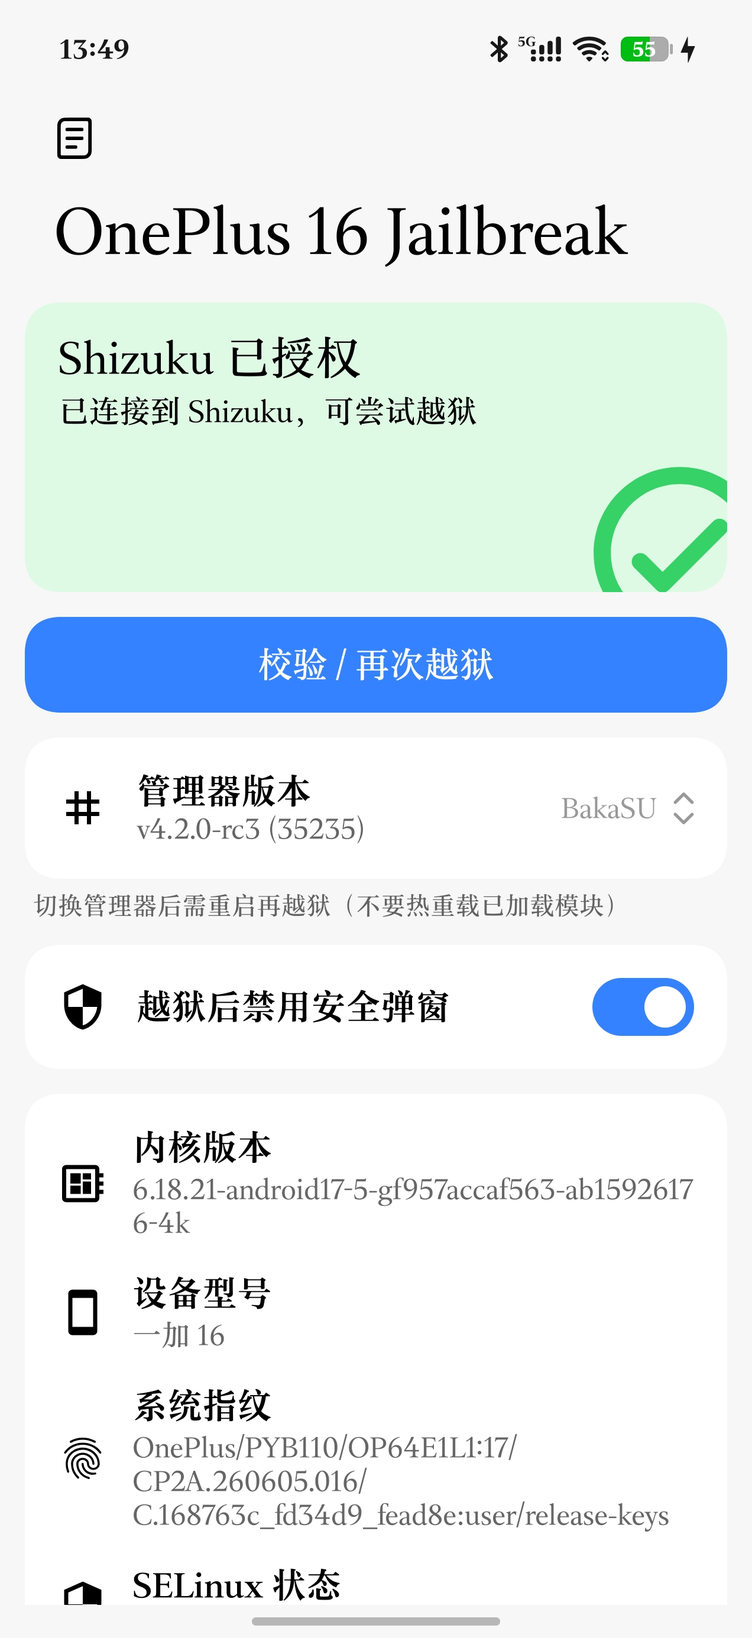
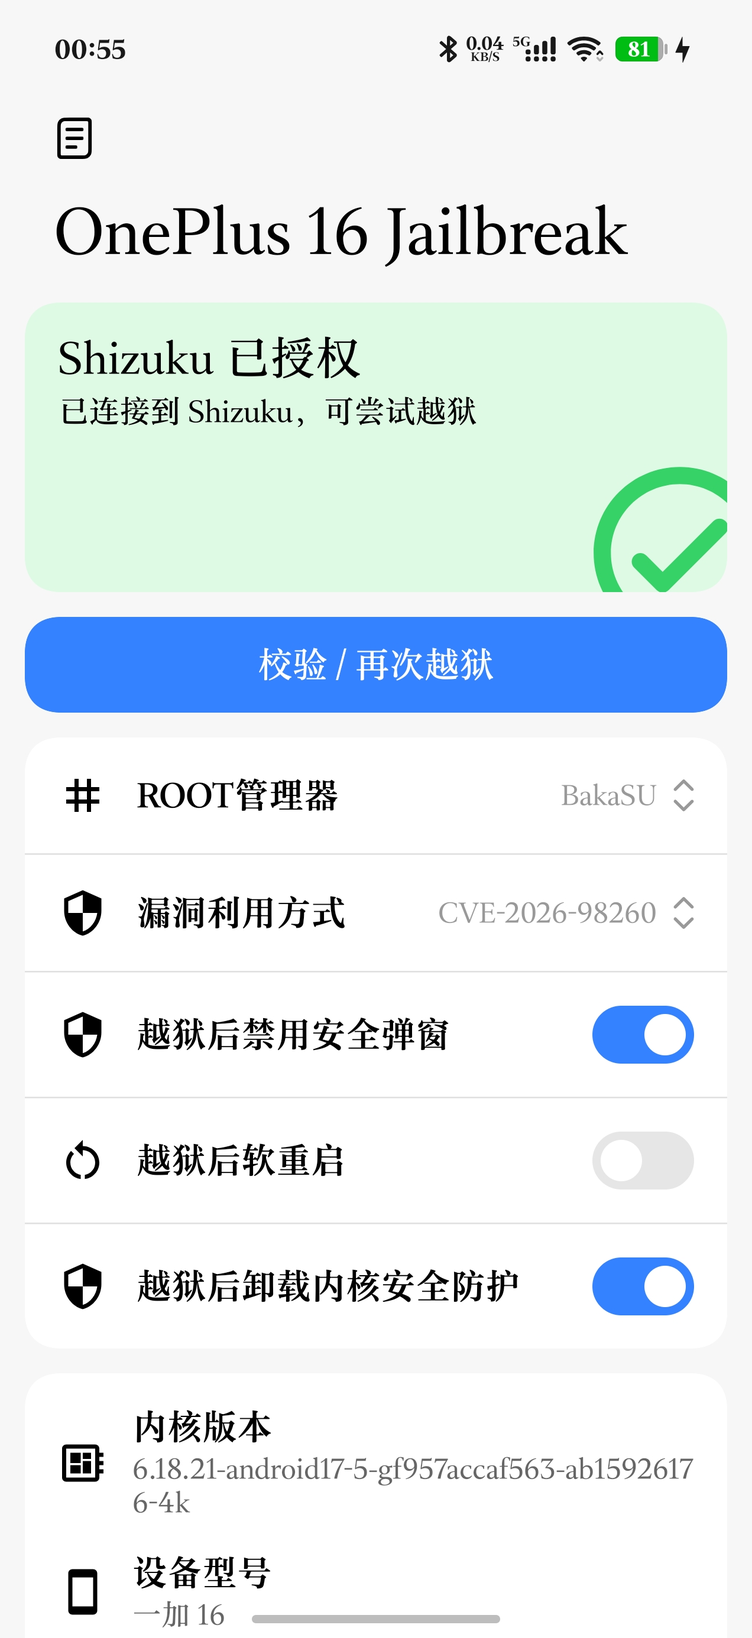
feat(app): clean up the 98260 rootd after a successful handoff
Kill t98260_plant and remove its socket once the normal su works;
keep the daemon only as a fallback when ksud install fails.
Refresh the README for the dual-exploit flow, current LKM versions,
built-in assets and the current app UI screenshots.

diff --git a/README.md b/README.md
@@ -1,71 +1,92 @@
 # OnePlus 16 Jailbreak
 
-在 **OnePlus 16（PYB110，SM8950，Android 17 / ColorOS，内核 `6.18.21-android17-5-gf957accaf563-ab15926176-4k`）** 上，通过 **CVE-2026-64560** 提权并加载 **内核态 root（KernelSU / KernelSU Next / BakaSU）** 的一键工具与源码。
+在 **OnePlus 16（PYB110，SM8950，Android 17 / ColorOS，内核 `6.18.21-android17-5-gf957accaf563-ab15926176-4k`）** 上，通过 **CVE-2026-64560** 或 **CVE-2026-98260** 提权，并加载 **内核态 root（KernelSU / KernelSU Next / BakaSU / SukiSU Ultra）** 的一键工具与源码。
 
-设备未解锁 BL，起手只有 adb shell（uid 2000）。工具通过 Shizuku 以 shell 身份驱动设备端 exploit，最终 `finit_module` 加载按本机 GKI 6.18.21 自编的 LKM。
+设备未解锁 BL，起手只有 adb shell（uid 2000）。工具通过 Shizuku 以 shell 身份驱动设备端 exploit，最终加载按本机 GKI 6.18.21 自编的 LKM：64560 分支走 `finit_module`，98260 分支走 `ksud late-load`（失败回退 `insmod`）。
 
 > 仅用于自有设备的系统研究。存在竞态与重启风险，详见「风险」一节。
 
 ## 当前状态
 
+- **双漏洞可选**：默认 `CVE-2026-64560`（逐字段零写 cred + `finit_module`）；`CVE-2026-98260` 使用本仓库的 `t98260_plant` 引擎（exec + POSIX 定时器 UAF、假 cred 指针写 + rootd），真机验证 uid 0、全量 CapEff、SELinux Permissive。98260 建议在干净开机后使用。
 - **KernelSU（官方 v3.3.1）**：真机跑通，模块 Live、`su` uid 0、管理器加冕、Enforcing 下可用。
-- **BakaSU（原 ReSukiSU）**：LKM/ksud/管理器均对齐官方 CI `v4.2.0-rc3 (35235)`，真机加载成功。
-- **KernelSU Next**：LKM 已按同版本 GKI 编译并在 App 中可选，尚未做实机加载验证。
-- **SukiSU Ultra**：LKM 按 6.18.21 自编（376,136 B）、管理器 v4.2.1 (40994)，真机加载成功：工作中 [LKM] [自定义] [越狱模式]，模块版本 41027-5，钩子类型 Tracepoint Syscall Redirect。
-- App 支持四种 root 管理器下拉选择；release 签名 APK 已构建。
-- **双漏洞可选**：默认 `CVE-2026-64560`（逐字段零写 cred），新增 `CVE-2026-98260`（假 cred 指针写 + ksud late-load）。下拉选择后点击“一键越狱”即走对应链路；98260 建议在干净开机后使用。
-- **全内置**：四个管理器的 ko/ksud、符号表、slide 与越狱脚本全部打包在 APK 内（约 28 MB），运行时不联网；管理器 APK 由用户自行安装。
+- **BakaSU（原 ReSukiSU）**：LKM/ksud/管理器对齐上游 `35252`（`v4.2.0-rc3`），真机加载成功；LKM 435,616 B。
+- **KernelSU Next**：LKM 350,000 B，已按同版本 GKI 编译并在 App 中可选，尚未做实机加载验证。
+- **SukiSU Ultra**：LKM/ksud 对齐 `v4.2.1-r2`（KSU 版本 41068），LKM 535,328 B；真机加载成功。
+- App 为单页设置：ROOT 管理器与漏洞利用方式各一个下拉，另有三个流程开关；release 签名 APK 已构建。
+- **全内置**：四个管理器的 ko/ksud、符号表、slide 与越狱脚本全部打包在 APK 内（`assets/pyb110` 约 48 MB，release APK 约 28 MB），运行时不联网；管理器 APK 由用户自行安装。
 
 ## 截图
 
 <table align="center">
   <tr>
-    <td align="center"><img src="docs/screenshots/bakasu-manager.jpg" width="170" alt="BakaSU 管理器"><br><sub><b>1 · BakaSU 管理器</b></sub></td>
-    <td align="center"><img src="docs/screenshots/kernelsu-manager.jpg" width="170" alt="KernelSU 管理器"><br><sub><b>2 · KernelSU 管理器</b></sub></td>
-    <td align="center"><img src="docs/screenshots/app-home.jpg" width="170" alt="App 首页"><br><sub><b>3 · App 首页</b></sub></td>
-    <td align="center"><img src="docs/screenshots/sukisu-manager.jpg" width="170" alt="SukiSU Ultra 管理器"><br><sub><b>4 · SukiSU Ultra</b></sub></td>
-    <td align="center"><img src="docs/screenshots/app-manager-dropdown.jpg" width="170" alt="管理器下拉"><br><sub><b>5 · 管理器下拉</b></sub></td>
+    <td align="center"><img src="docs/screenshots/app-home.jpg" width="170" alt="App 设置页"><br><sub><b>1 · App 设置页</b></sub></td>
+    <td align="center"><img src="docs/screenshots/app-exploit-dropdown.jpg" width="170" alt="漏洞利用方式下拉"><br><sub><b>2 · 漏洞利用方式</b></sub></td>
+    <td align="center"><img src="docs/screenshots/app-manager-dropdown.jpg" width="170" alt="ROOT 管理器下拉"><br><sub><b>3 · ROOT 管理器</b></sub></td>
+  </tr>
+  <tr>
+    <td align="center"><img src="docs/screenshots/kernelsu-manager.jpg" width="170" alt="KernelSU 管理器"><br><sub><b>4 · KernelSU 管理器</b></sub></td>
+    <td align="center"><img src="docs/screenshots/bakasu-manager.jpg" width="170" alt="BakaSU 管理器"><br><sub><b>5 · BakaSU 管理器</b></sub></td>
+    <td align="center"><img src="docs/screenshots/sukisu-manager.jpg" width="170" alt="SukiSU Ultra 管理器"><br><sub><b>6 · SukiSU Ultra 管理器</b></sub></td>
   </tr>
 </table>
 
 ## 工作原理
 
 ```
-┌──────────────────────────────┐
-│ App (Kotlin/Compose/Miuix)   │
-│  - 管理器下拉 / 反 root 开关 │
-│  - 日志二级页                │
-└──────────────┬───────────────┘
-               │ Shizuku (uid 2000)
-               ▼
-┌──────────────────────────────┐
-│ /data/local/tmp/pyb110-<id>  │
-│  run.sh 六步：               │
-│  1 抓 KASLR slide            │
-│  2 解 slide                  │
-│  3 按 slide 打补丁生成 ko    │
-│  4 selinux_state-7 零写      │
-│  5 perf 泄漏 cred + 两阶段写 │
-│  6 反 root 守卫 + ksud 安装  │
-└──────────────┬───────────────┘
-               │ finit_module
-               ▼
-┌──────────────────────────────┐
-│ 内核：kernelsu.ko (LKM)      │
-│  - su / 管理器加冕           │
-│  - 模块参数 allow_shell=1    │
-└──────────────────────────────┘
+┌────────────────────────────────┐
+│ App (Kotlin/Compose/Miuix)     │
+│  - ROOT 管理器 / 漏洞利用方式  │
+│  - 三个流程开关 / 日志页       │
+└───────────────┬────────────────┘
+                │ Shizuku (uid 2000)
+                ▼
+┌───────────────────────────────────────────────┐
+│ /data/local/tmp/pyb110-<boot_id>-<epoch>/     │
+│  64560：run.sh                                │
+│   1 抓/解 KASLR slide                         │
+│   2 按 slide 打补丁生成 ko                    │
+│   3 selinux_state-7 零写 → Permissive         │
+│   4 perf 泄漏 cred + 两阶段写                 │
+│   5 finit_module 加载 LKM                     │
+│   6 反 root 守卫 + ksud 安装                  │
+│  98260：run98260.sh                           │
+│   1 probe（内核指纹 / trace 通道）            │
+│   2 抓/解 KASLR slide                         │
+│   3 t98260_plant：UAF → 假 cred → rootd       │
+│   4 t98260_su → ksud late-load（回退 insmod） │
+│   5 反 root 守卫 + ksud 安装                  │
+└───────────────┬───────────────────────────────┘
+                ▼
+┌────────────────────────────────┐
+│ 内核：ksu-base*.ko (LKM)       │
+│  - su / 管理器加冕             │
+│  - 模块参数 allow_shell=1      │
+└────────────────────────────────┘
 ```
 
 关键点：
+
+**CVE-2026-64560（run.sh）**
 
 - **KASLR slide**：读取 `sched_blocked_reason` tracepoint 的 `%pS` 文本锚点和 per-CPU raw 指针，2MB 对齐投票。
 - **关闭 SELinux**：对 `selinux_state - 7` 做 8 字节零写，只覆盖 `enforcing`，保留 `initialized`（避免二次竞态与 `load_policy` 崩溃）。
 - **cred 泄漏**：`capset(0)` 触发 `kmem_cache_alloc`，用 perf tracepoint raw 直接拿到新 `cred` 的内核地址。
 - **两阶段写**：phase1 清 `cred+0x48`（cap_bset）；phase2 把 `cred+0x40`（cap_effective）写成地址自身，利用 bit7/bit16 获得 `CAP_SETUID`/`CAP_SYS_MODULE`。选位需跨 CPU。
 - **加载**：`setfsgid/setfsuid/setresuid(0)` 后 `finit_module(..., "allow_shell=1")`。
-- **反 root 守卫**：ColorOS 的 `com.oplus.exsystemservice` 会在检测到提权后弹窗并在 15 秒后 `reboot("Malicious app try to root devices")`。可选开关开启时，流程会在拿到 su 后禁用该包并 kill 进程，**5 秒后自动恢复**（禁用过久会导致系统截图不可用）。
 - **管理器加冕**：`chmod 644 /data/system/packages.list` 后原子移出/移回触发 fsnotify。
+
+**CVE-2026-98260（run98260.sh + t98260_plant）**
+
+- **UAF 原语**：非 leader 线程 exec 与 `CLOCK_THREAD_CPUTIME_ID` POSIX 定时器竞争；`exit_itimers` 在定时器队列节点仍挂链时释放 `k_itimer`，`release_task` 之后再对已释放节点执行 `rb_erase`。
+- **拉窗与命中**：50000 个单页 memfd VMA 与 mprotect 锁线程拉长 `exec_mmap` 窗口；ESRCH 门控的 `tgkill(SIGKILL)` 只杀正在 exec 的非 leader。
+- **泄漏与回收**：2048 个定时器，ftrace raw 管道逐字节扫描拿到 `k_itimer` 地址；`mm_page_alloc/free` 与 PFN 校验定位被释放的 order-1 slab 页，再用 8K AF_UNIX skb 回收。
+- **写入与提权**：伪造 `rb_node` 瓦片，借 `rb_erase` 完成零写/指针写；先以同一原语把 `selinux_state - 7` 写零进入 Permissive，再把假 cred 装进 `task->cred`。
+- **rootd 与交接**：假 cred 子进程在 `/data/local/tmp/t98260-root.sock` 提供 rootd，`t98260_su` 以 root 执行 `ksud late-load --kmi android17-6.18`；失败时用 `prep_patch` 按当次 slide 打补丁后 `insmod`。
+
+**两个分支共用**
+
+- **反 root 守卫**：ColorOS 的 `com.oplus.exsystemservice` 会在检测到提权后弹窗并在 15 秒后 `reboot("Malicious app try to root devices")`。可选开关开启时，流程会在拿到 su 后禁用该包并 kill 进程，**5 秒后自动恢复**（禁用过久会导致系统截图不可用）。
 
 ## 目录结构
 
@@ -73,8 +94,8 @@
 OnePlus16-Jailbreak/
 ├── app/                         Android App（Gradle 工程根）
 │   ├── app/                     :app 模块（Kotlin/Compose/Miuix/Shizuku）
-│   │   ├── src/main/java/...    MainActivity
-│   │   ├── src/main/assets/pyb110/  内置 exploit 二进制（约 11 MB）
+│   │   ├── src/main/java/com/pyb110/onekey/MainActivity.kt  单页设置与流程调度
+│   │   ├── src/main/assets/pyb110/  内置设备端工具与四家 ko/ksud（约 48 MB）
 │   │   ├── src/main/res/        自绘图标与资源
 │   │   ├── build.gradle.kts     签名配置 + R8
 │   │   └── proguard-rules.pro
@@ -82,27 +103,29 @@ OnePlus16-Jailbreak/
 │   ├── keystore.properties.example
 │   └── settings.gradle.kts
 ├── exploit/                     提权工具源码
-│   ├── src/t64560_w2.c          两阶段 cred 写
+│   ├── src/t64560_w2.c          64560 两阶段 cred 写
+│   ├── src/t98260_plant.c       98260 UAF / 泄漏 / 假 cred / rootd
+│   ├── src/t98260_su.c          rootd 客户端
 │   ├── src/prep_solve.c         设备端 slide 求解
-│   └── src/prep_patch.c         ko 符号补丁（UNDEF → link+slide）
-├── remote/                      远端素材源
-│   ├── scripts/run.sh           64560 六步主流程（运行时下载）
-│   └── assets/pyb110/run98260.sh 98260 主流程（t98260_plant -> rootd -> late-load）
+│   ├── src/prep_patch.c         ko 符号补丁（UNDEF → link+slide）
+│   └── build-98260.sh           用 NDK 静态编译 t98260_plant / t98260_su
+├── remote/                      设备端脚本与符号表副本（App 运行时不下载）
+│   ├── scripts/run.sh           64560 主流程
 │   ├── scripts/take_slide.sh    抓 slide
 │   └── syms-6.18.21.txt         该内核的符号表
-├── assets/                      签名清单 manifest.json / manifest.sig
-├── tools/                       发布工具（managers.json + publish_assets.py）
 ├── lkm/                         LKM 构建脚本
 │   ├── build-kernelsu.sh        官方 KernelSU
 │   ├── build-next.sh            KernelSU Next
 │   ├── build-bakasu.sh          BakaSU（原 ReSukiSU）
+│   ├── build-sukisu.sh          SukiSU Ultra
 │   └── README.md
+├── docs/screenshots/            App 与管理器截图
 ├── third_party/                 上游工具与许可（CVE 公开仓库）
 ├── NOTICE                       第三方来源与许可
 └── LICENSE                      MIT（本项目自研代码）
 ```
 
-> 设备端还使用公开仓库提供的 `t64560_v36`、`t64560_loader2`、`forker` 二进制（Apache-2.0）；98260 分支使用本仓库 [exploit/src](exploit/src) 自建的 `t98260_plant`、`t98260_su`。全部打包在 `app/app/src/main/assets/pyb110/` 内，来源与许可见 `NOTICE` 与下文。
+> 设备端还使用公开仓库提供的 `t64560_v36`、`t64560_loader2`、`forker` 二进制（Apache-2.0）；`t64560_w2` 与 98260 分支的 `t98260_plant`、`t98260_su` 由本仓库 [exploit/src](exploit/src) 构建。全部打包在 `app/app/src/main/assets/pyb110/` 内，来源与许可见 `NOTICE` 与下文。
 
 ## 构建
 
@@ -115,7 +138,7 @@ cd app
 cp keystore.properties.example keystore.properties   # 填入自己的签名信息
 # local.properties 里写 sdk.dir=/path/to/android-sdk
 ./gradlew :app:assembleDebug
-./gradlew :app:assembleRelease   # R8 + 资源压缩，约 7 MB（只内置 exploit 工具）
+./gradlew :app:assembleRelease   # R8 + 资源压缩，约 28 MB（内置全部设备端素材）
 ```
 
 `keystore.properties`、`keystore/`、`*.jks`、`local.properties` 已被 `.gitignore` 排除。生成 release 密钥示例：
@@ -125,27 +148,15 @@ keytool -genkeypair -v -keystore keystore/release.jks -alias oneplus16 \
   -keyalg RSA -keysize 4096 -validity 10000 -storetype PKCS12
 ```
 
-### 远端素材与签名清单
+### 内置素材
 
-APK 只内置 exploit 二进制（`prep_*`、`t64560_*`、`forker`、`t98260_plant`、`t98260_su`、`run98260.sh`，约 15 MB），**按所选漏洞只部署其中一组**（64560 不推 98260 的，反之亦然；98260 也不部署 `run.sh`）。四个管理器的 ko/ksud、`syms.txt`、`run.sh`、`take_slide.sh` 全部内置，运行时不联网：
+App 把全部设备端资产打包在 `app/app/src/main/assets/pyb110/`（约 48 MB 未压缩，release APK 约 28 MB），运行时不联网。每次越狱只部署当前选择需要的文件：
 
-1. 取 `https://raw.githubusercontent.com/Yunnijian/OnePlus16-Jailbreak/refs/heads/main/assets/manifest.json` 与同名 `.sig`；
-2. 用 App 内置的 ECDSA P-256 公钥验签（私钥 `keystore/update-signing-key.pem` 永不入库）；
-3. 按清单里的 `kernel` 与首页所选管理器挑条目，逐个校验 `size` + `sha256`，`.ko` 还要含 `vermagic=<kernel>` 才接受；
-4. 文件按 sha256 缓存在 App 私有目录，拉清单失败时用 last-good 缓存；部署仍走原来的 Shizuku `cat >` 流。
+- 64560：`prep_solve`、`prep_patch`、`t64560_v36`、`t64560_loader2`、`t64560_w2`、`forker`、`run.sh`；
+- 98260：`t98260_plant`、`t98260_su`、`prep_solve`、`prep_patch`、`forker`、`run98260.sh`；
+- 共用：`syms.txt`、`take_slide.sh`，以及所选管理器的 `ksu-base*.ko` + `ksud_*`。
 
-更新一轮素材：
-
-```bash
-# 1) 准备 staging（文件名即部署名，syms 用 syms-6.18.21.txt）
-# 2) 改 tools/managers.json 里的 label/version
-python3 tools/publish_assets.py --src <staging> --out assets \
-  --key app/keystore/update-signing-key.pem --upload
-# 3) 提交清单，App 下次运行即生效（无需重装）
-git add assets/manifest.json assets/manifest.sig
-```
-
-`--upload` 会把产物传到一个滚动 Release（默认 tag `assets-latest`，同名资产 `--clobber` 覆盖），清单里的 URL 指向那里。测试时可加 `--base-url http://127.0.0.1:8765` 配合 `adb reverse` 做本地联调（网络安全配置只对回环放行明文）。
+更新素材时直接替换 `assets/pyb110/` 下的文件并重新打包 APK。`remote/` 保留 64560 主流程、抓 slide 脚本与符号表副本，便于不装 App 时手工调试；与 `assets/pyb110/` 的对应文件需手动保持一致。
 
 ### LKM
 
@@ -167,40 +178,49 @@ bash lkm/build-bakasu.sh
 bash lkm/build-sukisu.sh
 ```
 
-四个产物都需在设备端按当次 boot 的 KASLR slide 由 `prep_patch` 重新写符号。管理器与 ksud 建议直接用官方 release / CI 产物（BakaSU 的 `Manager-release` 与 `ksud`），不要在本地重复编译。
+64560 的 `finit_module` 与 98260 的 `insmod` 回退都需要设备端按当次 boot 的 KASLR slide 用 `prep_patch` 重写符号；98260 默认先尝试 `ksud late-load`，失败再回退到打补丁后的 `insmod`。管理器与 ksud 建议直接用官方 release / CI 产物（BakaSU 的 `Manager-release` 与 `ksud`），不要在本地重复编译。
 
 ### 设备端工具
 
-`prep_solve.c` / `prep_patch.c` / `t64560_w2.c` 用 NDK 静态编译为 aarch64：
+`prep_solve.c` / `prep_patch.c` / `t64560_w2.c` 用 NDK 静态编译为 aarch64；98260 分支的 `t98260_plant` / `t98260_su` 用 [exploit/build-98260.sh](exploit/build-98260.sh) 一键编译：
 
 ```bash
+bash exploit/build-98260.sh          # 默认 NDK 28.2，可用 CC=... 覆盖编译器
+
 CC=$NDK/toolchains/llvm/prebuilt/<host>/bin/aarch64-linux-android26-clang
 $CC -O2 -static -o prep_solve exploit/src/prep_solve.c
 $CC -O2 -static -o prep_patch exploit/src/prep_patch.c
 $CC -O2 -static -o t64560_w2 exploit/src/t64560_w2.c
 ```
 
-`run.sh` 从 `/data/local/tmp/pyb110-<boot_id>-<epoch>/` 运行，按 `PYB110_MANAGER`（`kernelsu` / `next` / `bakasu` / `sukisu`）与 `PYB110_DISABLE_ANTIROOT`（`1` / `0`）选择行为。
+`run.sh` / `run98260.sh` 从 `/data/local/tmp/pyb110-<boot_id>-<epoch>/` 运行，读取 `PYB110_MANAGER`（`kernelsu` / `next` / `bakasu` / `sukisu`）、`PYB110_DISABLE_ANTIROOT`（`1` / `0`）、`PYB110_UNLOAD_GUARD`（`1` / `0`）与 `PYB110_LATE_LOAD`（98260，默认 `1`）选择行为。
 
 ## 使用
 
 1. 用无线调试启动 Shizuku，并授权本 App。
-2. 首页选择 root 管理器（KernelSU / KernelSU Next / BakaSU / SukiSU Ultra）。切换管理器后需重启再越狱（已加载模块不能热替换）。
-3. 可选开启「越狱后禁用安全弹窗」：禁用 5 秒后自动恢复；如截图等系统功能异常，软重启（重启 zygote/SystemUI）。
-4. 可选开启「越狱后软重启」：越狱流程跑完且模块确认加载后，以 `su` 执行 `setprop ctl.restart zygote`，等同软重启；失败不会影响已完成的越狱。
-5. 点击「一键越狱」，等待日志出现 `DONE`。首次运行会走竞态，可能概率性重启。
+2. 在「ROOT管理器」下拉选择 KernelSU / KernelSU Next / BakaSU / SukiSU Ultra，在「漏洞利用方式」下拉选择 CVE-2026-64560 或 CVE-2026-98260。切换管理器后需重启再越狱（已加载模块不能热替换）。
+3. 98260 建议在干净开机后执行：`t98260_plant --probe` 会先核对内核 release 与 trace 通道；plant 命中通常 10–120 秒（预算 240 秒），期间可能概率性重启。
+4. 三个流程开关：
+   - 「越狱后禁用安全弹窗」：拿到 su 后禁用 `com.oplus.exsystemservice` 并 kill 进程，5 秒后自动恢复；如截图等系统功能异常，软重启（重启 zygote/SystemUI）。
+   - 「越狱后软重启」：流程跑完且模块确认加载后，以 `su` 执行 `setprop ctl.restart zygote`；失败不会影响已完成的越狱。
+   - 「越狱后卸载内核安全防护」：拿到 su 后 `rmmod oplus_secure_guard_new`，日志给出 `UNLOAD_GUARD_GONE` 或 `UNLOAD_GUARD_STILL_LOADED`；模块被引用时不会强制卸载，重启后会重新加载。
+5. 点击「一键越狱」，等待日志出现 `DONE`。
 6. 越狱成功后用对应管理器授权 root。
 
 ## 已知限制
 
 - **换管理器必须重启**：`rmmod kernelsu` 会被模块自身的 kprobe/tracepoint 引用计数挡住（EAGAIN）；强制卸载会撞上 `file_wrapper` 未反注册导致 kpanic。
 - **KernelSU Next** 尚未做实机加载验证。
+- **98260 只适配 6.18.21**：`t98260_plant --probe` 会校验完整内核 release 与 trace 通道，不匹配直接退出；依赖 `/sys/kernel/tracing`，建议干净开机后执行。
+- **98260 的假 cred 只替换 `task->cred`**：plant 进程内 `/proc/self/status` 的 `CapEff` 读的是 `real_cred`，显示 0 属正常；以 rootd / `t98260_su` 子进程为准。
+- **98260 越狱后自动清理 rootd**：模块加载且正常 `su` 可用后，流程会 `pkill t98260_plant` 并删除 `/data/local/tmp/t98260-root.sock`，日志出现 `ROOTD_CLEANED`；若 ksud 未装好、`su` 不可用，则保留 rootd 兜底并打印 `ROOTD_KEPT`。
 - App 依赖 Shizuku 服务；重启后需重新启动 Shizuku。
 - 反 root 开关关闭时，加载后可能触发 ColorOS 安全弹窗并在 15 秒后重启。
 
 ## 风险
 
-- CVE-2026-64560 是竞态 UAF，任何一次运行都可能导致内核 panic / 重启。
+- CVE-2026-64560 与 CVE-2026-98260 都是竞态 UAF，任何一次运行都可能导致内核 panic / 重启；98260 在命中前也可能重启。
+- 98260 在 ksud 安装失败时会保留 0666 的 rootd socket（日志 `ROOTD_KEPT`，见「已知限制」），请及时处理。
 - 本工具仅用于**自有设备**的系统研究与 root 管理；请勿用于未授权设备。
 - 使用 root 与内核模块存在数据损坏、保修失效等风险，风险自负。
 
@@ -208,7 +228,7 @@ $CC -O2 -static -o t64560_w2 exploit/src/t64560_w2.c
 
 - 提权原语与 `t64560_v36` / `t64560_loader2` / `forker`、部分上游脚本：  
   [Feng1586/CVE-2026-64560-public](https://github.com/Feng1586/CVE-2026-64560-public)（Apache-2.0）。
-- CVE-2026-98260 PYB110 公开移植（98260 流程与设计背景；内置 `t98260_*` 由本仓库 `exploit/src` 构建）：  
+- CVE-2026-98260 PYB110 公开移植（设计背景与流程参考；内置 `t98260_plant` / `t98260_su` 由本仓库 [exploit/src](exploit/src) 构建）：  
   [AzirX1337/CVE-2026-98260-OnePlus16-PYB110-Jailbreak](https://github.com/AzirX1337/CVE-2026-98260-OnePlus16-PYB110-Jailbreak)（MIT，许可全文见 `third_party/cve-2026-98260-LICENSES/AzirX1337-MIT.txt`）。
 - 官方 KernelSU：[tiann/KernelSU](https://github.com/tiann/KernelSU)（GPL-2.0）。
 - KernelSU Next：[rifsxd/KernelSU-Next](https://github.com/rifsxd/KernelSU-Next)（GPL-2.0）。
@@ -219,5 +239,5 @@ $CC -O2 -static -o t64560_w2 exploit/src/t64560_w2.c
 
 ## 校验和
 
-- release APK：`PYB110-OneClick-release.apk` / 22,240,543 B / md5 `3528f2e036441fbe6b33c5a850dcf11d`（对应交付目录，不在本仓库内）。
-- 官方 KernelSU LKM（6.18.21）：348,848 B；Next：350,000 B；BakaSU：385,440 B（strip 后）。
+- release APK：`app/app/build/outputs/apk/release/app-release.apk` / 29,171,420 B / md5 `be3610775a8fc406dca228a9bab8b7c9`（本地构建产物，不入库）。
+- KernelSU LKM（6.18.21）：349,224 B；Next：350,000 B；BakaSU：435,616 B；SukiSU：535,328 B（strip 后）。

diff --git a/lkm/README.md b/lkm/README.md
@@ -25,10 +25,10 @@ docker run --rm \
 
 | 脚本 | 产物 | strip 后 |
 | --- | --- | --- |
-| `build-kernelsu.sh` | 官方 KernelSU | 348,848 B |
+| `build-kernelsu.sh` | 官方 KernelSU v3.3.1 | 349,224 B |
 | `build-next.sh` | KernelSU Next | 350,000 B |
-| `build-bakasu.sh` | BakaSU | 385,440 B |
-| `build-sukisu.sh` | SukiSU Ultra (v4.2.1) | 376,136 B |
+| `build-bakasu.sh` | BakaSU 35252（v4.2.0-rc3） | 435,616 B |
+| `build-sukisu.sh` | SukiSU Ultra v4.2.1-r2（41068） | 535,328 B |
 
 vermagic 均为 `6.18.21-4k SMP preempt mod_unload modversions aarch64`。
 
